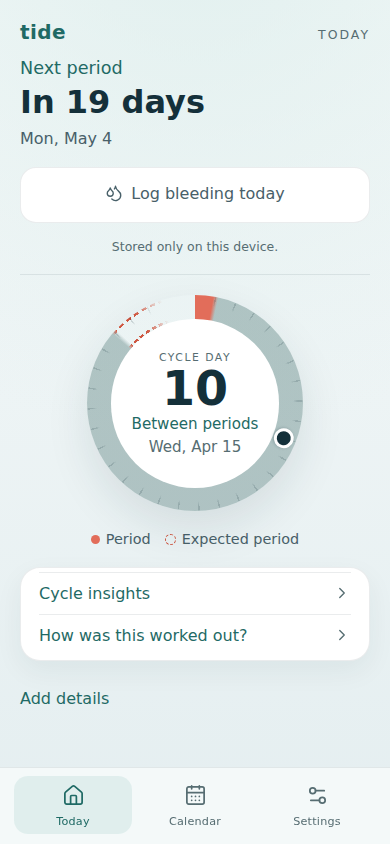
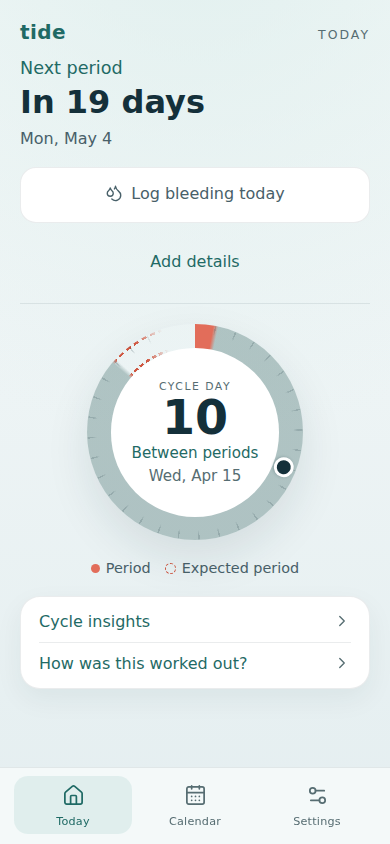
feat(today): log details beside bleeding and drop the storage line
- Move the "Add details" diary trigger into the lead block, centred under the
  log button, so both daily records sit together above the dial.
- Remove the "Stored only on this device." line and its key in all five
  languages; Settings still states where data lives.
- Drop the divider above the first insights row: with fertility off the
  card has no rows, and the divider drew a second outline inside the card.
- Recapture the Today screenshots with the backup reminder off.

Changed region(s): [[0.0308, 0.2773, 0.9538, 0.8318], [0.3692, 0.3697, 0.4, 0.4005]]

diff --git a/tests/e2e/today-priority.spec.ts b/tests/e2e/today-priority.spec.ts
@@ -2,6 +2,14 @@ import { expect, test } from "@playwright/test";
 import { SUPPORTED_LANGUAGES, translate } from "../../src/i18n";
 import { seedAppState } from "./seed";
 
+test("the insights card draws no divider above its first row", async ({ page }) => {
+  await seedAppState(page, "en", { showFertility: false });
+  await page.goto("/");
+  const first = page.locator(".fact-list > :first-child");
+  await expect(first).toHaveText("Cycle insights");
+  await expect(first).toHaveCSS("border-top-width", "0px");
+});
+
 for (const language of SUPPORTED_LANGUAGES) {
   for (const [name, days] of [
     ["first log", []],
@@ -25,6 +33,11 @@ for (const language of SUPPORTED_LANGUAGES) {
       const dialBox = await dial.boundingBox();
       const tabs = await page.getByRole("navigation").boundingBox();
       expect(logBox?.y).toBeLessThan(dialBox?.y ?? 0);
+      const detailsBox = await page
+        .getByRole("button", { name: translate(language, "diary.addDetails") })
+        .boundingBox();
+      expect(detailsBox?.y).toBeGreaterThan(logBox?.y ?? 0);
+      expect(detailsBox?.y).toBeLessThan(dialBox?.y ?? 0);
       expect((logBox?.y ?? 0) + (logBox?.height ?? 0)).toBeLessThan(tabs?.y ?? 0);
       await log.click();
       await expect(page.getByRole("radio").first()).toBeFocused();

diff --git a/src/features/today/TodayScreen.tsx b/src/features/today/TodayScreen.tsx
@@ -146,7 +146,7 @@ export function TodayScreen(props: TodayScreenProps) {
             autoFocus={focusPending}
           />
         )}
-        <p className="today-screen__privacy">{t("today.privacy")}</p>
+        <DailyDetails today={today} />
       </div>
 
       {/* Import is disabled while read-only, so the link would lead nowhere. */}
@@ -241,7 +241,6 @@ export function TodayScreen(props: TodayScreenProps) {
         <Explainer explanation={explanation} onClose={() => setExplainOpen(false)} />
       ) : null}
 
-      <DailyDetails today={today} />
       <BackupReminder today={today} onDone={() => insightsButton.current?.focus()} />
     </section>
   );

diff --git a/src/styles/screens.css b/src/styles/screens.css
@@ -55,6 +55,12 @@
     line-height: 1.2;
   }
 
+  /* The diary trigger sits under the full-width log button, so it centres with it. */
+  .today-screen__lead .daily-details__trigger {
+    display: block;
+    margin-inline: auto;
+  }
+
   .today-screen__note {
     margin: 0;
     color: var(--ink-muted);
@@ -63,13 +69,6 @@
   }
 
   /* The privacy promise, stated where the data is made: one quiet line. */
-  .today-screen__privacy {
-    margin: 0;
-    text-align: center;
-    color: var(--ink-muted);
-    font-size: var(--text-sm);
-  }
-
   .reminder-prompt {
     display: grid;
     gap: 14px;

diff --git a/src/i18n/fr.ts b/src/i18n/fr.ts
@@ -86,7 +86,6 @@ export const fr: Dictionary = {
     "Tide peut indiquer les jours où tu es le plus susceptible d’être fertile, calculés à partir des règles que tu enregistres. C’est une estimation, pas une contraception. Tu pourras changer d’avis dans les Réglages.",
   "fertilityAsk.show": "Afficher",
   "fertilityAsk.hide": "Ne pas afficher",
-  "today.privacy": "Stocké uniquement sur cet appareil.",
   "today.importPrompt": "Tu as une sauvegarde Tide ou un historique Clue ou Flo ?",
   "today.importLink": "L’importer",
   "today.fertilityUnclear": "Incertaine en cas de retard",

diff --git a/src/i18n/de.ts b/src/i18n/de.ts
@@ -86,7 +86,6 @@ export const de: Dictionary = {
     "Tide kann die Tage markieren, an denen du am ehesten fruchtbar bist, berechnet aus deinen erfassten Perioden. Das ist eine Schätzung, keine Verhütungsmethode. Du kannst das in den Einstellungen ändern.",
   "fertilityAsk.show": "Anzeigen",
   "fertilityAsk.hide": "Nicht anzeigen",
-  "today.privacy": "Nur auf diesem Gerät gespeichert.",
   "today.importPrompt": "Hast du eine Tide-Sicherung oder Daten aus Clue oder Flo?",
   "today.importLink": "Importieren",
   "today.fertilityUnclear": "Unklar bei Verspätung",

diff --git a/src/i18n/es.ts b/src/i18n/es.ts
@@ -85,7 +85,6 @@ export const es: Dictionary = {
     "Tide puede marcar los días en que es más probable que seas fértil, calculados a partir de los períodos que registras. Es una estimación, no un método anticonceptivo. Puedes cambiarlo en Ajustes.",
   "fertilityAsk.show": "Mostrar",
   "fertilityAsk.hide": "No mostrar",
-  "today.privacy": "Guardado solo en este dispositivo.",
   "today.importPrompt": "¿Tienes una copia de seguridad de Tide o tu historial de Clue o Flo?",
   "today.importLink": "Importar",
   "today.fertilityUnclear": "Incierta con retraso",

diff --git a/src/i18n/nl.ts b/src/i18n/nl.ts
@@ -86,7 +86,6 @@ export const nl: Dictionary = {
     "Tide kan de dagen aangeven waarop je het meest waarschijnlijk vruchtbaar bent, berekend uit de menstruaties die je logt. Het is een schatting, geen anticonceptie. Je kunt dit wijzigen in Instellingen.",
   "fertilityAsk.show": "Tonen",
   "fertilityAsk.hide": "Niet tonen",
-  "today.privacy": "Alleen op dit apparaat opgeslagen.",
   "today.importPrompt": "Heb je een Tide-back-up of je geschiedenis uit Clue of Flo?",
   "today.importLink": "Importeren",
   "today.fertilityUnclear": "Onduidelijk bij vertraging",

diff --git a/src/i18n/en.ts b/src/i18n/en.ts
@@ -83,7 +83,6 @@ export const en = {
     "Tide can mark the days you are most likely to be fertile, worked out from the periods you log. It is an estimate, not birth control. You can change this in Settings.",
   "fertilityAsk.show": "Show",
   "fertilityAsk.hide": "Don't show",
-  "today.privacy": "Stored only on this device.",
   "today.importPrompt": "Have a Tide backup, or history in Clue or Flo?",
   "today.importLink": "Import it",
   "today.fertilityUnclear": "Unclear while late",

diff --git a/src/styles/ui.css b/src/styles/ui.css
@@ -131,6 +131,12 @@
     transition: color 160ms ease;
   }
 
+  /* With fertility off the card has no rows, so its first button sits on the
+     card's own edge and a divider would draw a second outline. */
+  .fact-list__more:first-child {
+    border-top: 0;
+  }
+
   .fact-list__more:hover {
     color: var(--tide);
   }

diff --git a/CHANGELOG.md b/CHANGELOG.md
@@ -57,7 +57,7 @@ adheres to [Semantic Versioning](https://semver.org/spec/v2.0.0.html).
 
 ### Changed
 
-- Today puts the next-period estimate and logging first, with a smaller interactive cycle dial.
+- Today puts the next-period estimate and logging first, with "Add details" beside the log button and a smaller interactive cycle dial below. The "Stored only on this device" line is gone.
 - The privacy statement names Cloudflare as the host without naming the product,
   since the app moves from Cloudflare Pages to a Cloudflare Worker.
 - Tide asks once whether to show fertility estimates, and hides them until you
